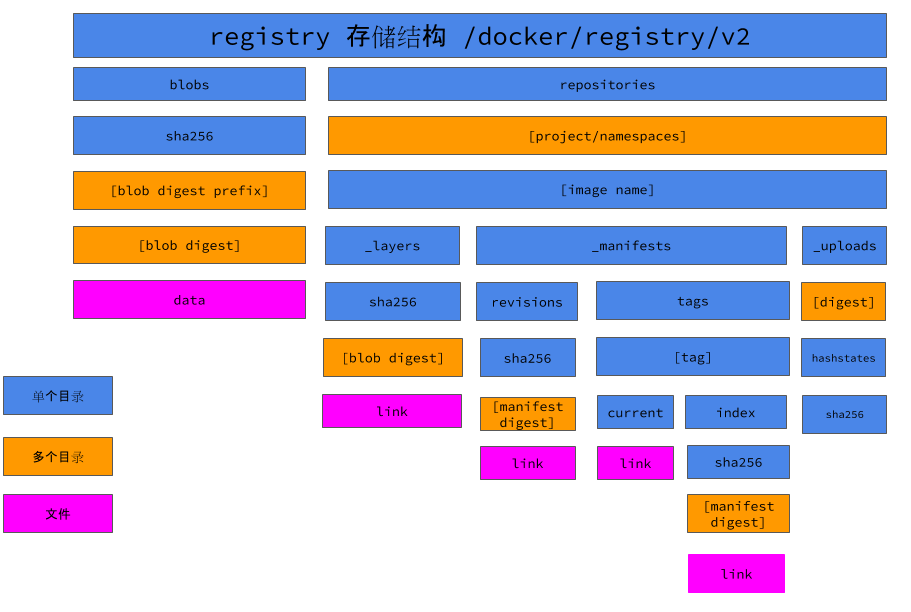
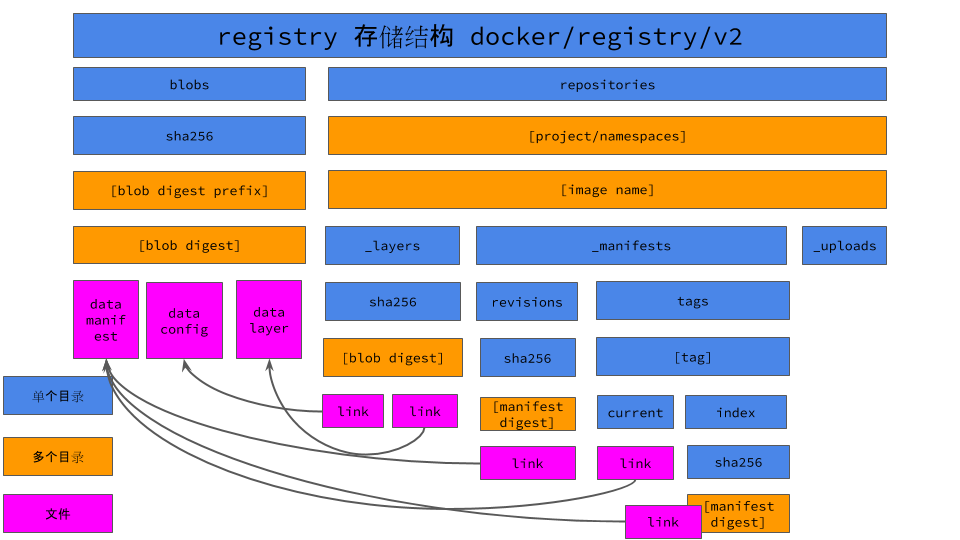
update

diff --git a/source/_posts/2020-07-11-registry-gc.md b/source/_posts/2020-07-11-registry-gc.md
@@ -528,6 +528,30 @@ marking 阶段是扫描所有的 manifest 文件，根据上文我们提到的 l
 		}
 ```
 
+这一阶段用 shell 脚本来实现的话大致可以这样来搞，使用 shell 去遍历这些 manifest ，然后再 grep 出所有的 sha256 值就能得到这个镜像所有的 blobs 目录下的 data 文件。
+
+```shell
+v2=${v2:="/var/lib/registry/docker/registry/v2"}
+
+cd ${v2}
+all_blobs=/tmp/all_blobs.list
+echo "" > ${all_blobs}
+# marking all the blob by all images manifest
+for project in $(ls repositories/)
+do
+    for image in $(ls repositories/${project})
+    do
+        for tag in $(ls repositories/${project}/${image}/_manifests/tags)
+        do
+            link=$(cat repositories/${project}/${image}/_manifests/tags/${tag}/current/link | cut -c8-71)
+            mfs=blobs/sha256/${link:0:2}/${link}/data
+            echo ${link} >> ${all_blobs}
+            grep sha256 ${mfs} >> ${all_blobs}
+        done
+    done
+done
+```
+
 #### sweep
 
 第二阶段就是删除操作啦，marking 完之后，没有标记 blob（ layer 和 config 文件）就会被清除掉。
@@ -553,8 +577,6 @@ marking 阶段是扫描所有的 manifest 文件，根据上文我们提到的 l
 		return nil
 	})
 ```
-
-
 
 ![](img/registry-gc.png)
 
@@ -649,6 +671,49 @@ INFO[0000] Deleting blob: /docker/registry/v2/blobs/sha256/21/21c83c5242199776c2
 ```
 
 根据 GC 后的 registry 存储目录我们可以看到，原本 blobs 目录下有 6 个 data 文件，现在已经变成了 3 个，alpine:3.10 这个镜像相关的 layer、config、manifest 这三个文件都已经被 GC 掉了。但是在 repositories 目录下，该镜像的 _layers 下的 link 文件依旧存在🤔。
+
+### shell 大法好！
+
+根据上面的 GC 原理和过程，实际上我们可以使用不到 30 行的 shell 脚本来实现一个粗暴的  GC 😂
+
+```SHELL
+#!/bin/bash
+set -x
+v2=${v2:="/var/lib/registry/docker/registry/v2"}
+cd ${v2}
+all_blobs=/tmp/all_blobs.list
+echo "" > ${all_blobs}
+# marking all the blob by all images manifest
+for project in $(ls repositories/)
+do
+    for image in $(ls repositories/${project})
+    do
+        for tag in $(ls repositories/${project}/${image}/_manifests/tags)
+        do
+            link=$(cat repositories/${project}/${image}/_manifests/tags/${tag}/current/link | cut -c8-71)
+            mfs=blobs/sha256/${link:0:2}/${link}/data
+            echo ${link} >> ${all_blobs}
+            grep sha256 ${mfs} >> ${all_blobs}
+        done
+    done
+done
+# delete blob if the blob doesn't exist in all_blobs.list
+for blob in $(find blobs -name "data" | cut -d "/" -f4)
+do
+    grep ${blob} ${all_blobs}
+    if [[ $? != 0 ]]; then
+    rm -rf blobs/sha256/${blob:0:2}/${blob}
+    fi
+done
+```
+
+1.  遍历所有镜像的 tag 下最新的 link 文件指向的 manifest
+
+2.  根据 manifest 文件 grep 出 sha256 值的 image config 和 layer 文件，保存到 `all_blobs.list` 文件中。
+3.  使用 `find` 和 `for` 循环遍历所有 blobs 下的的 data 文件，判断它是否在 `all_blobs.list` 中，不再的话直接 `rm -rf` 干掉它！
+4.  最后重启一下 registry 容器。
+
+就是这么简单粗暴！哈哈，`rm -rf` 用起来真爽（手动滑稽
 
 ## 踩坑！
 
